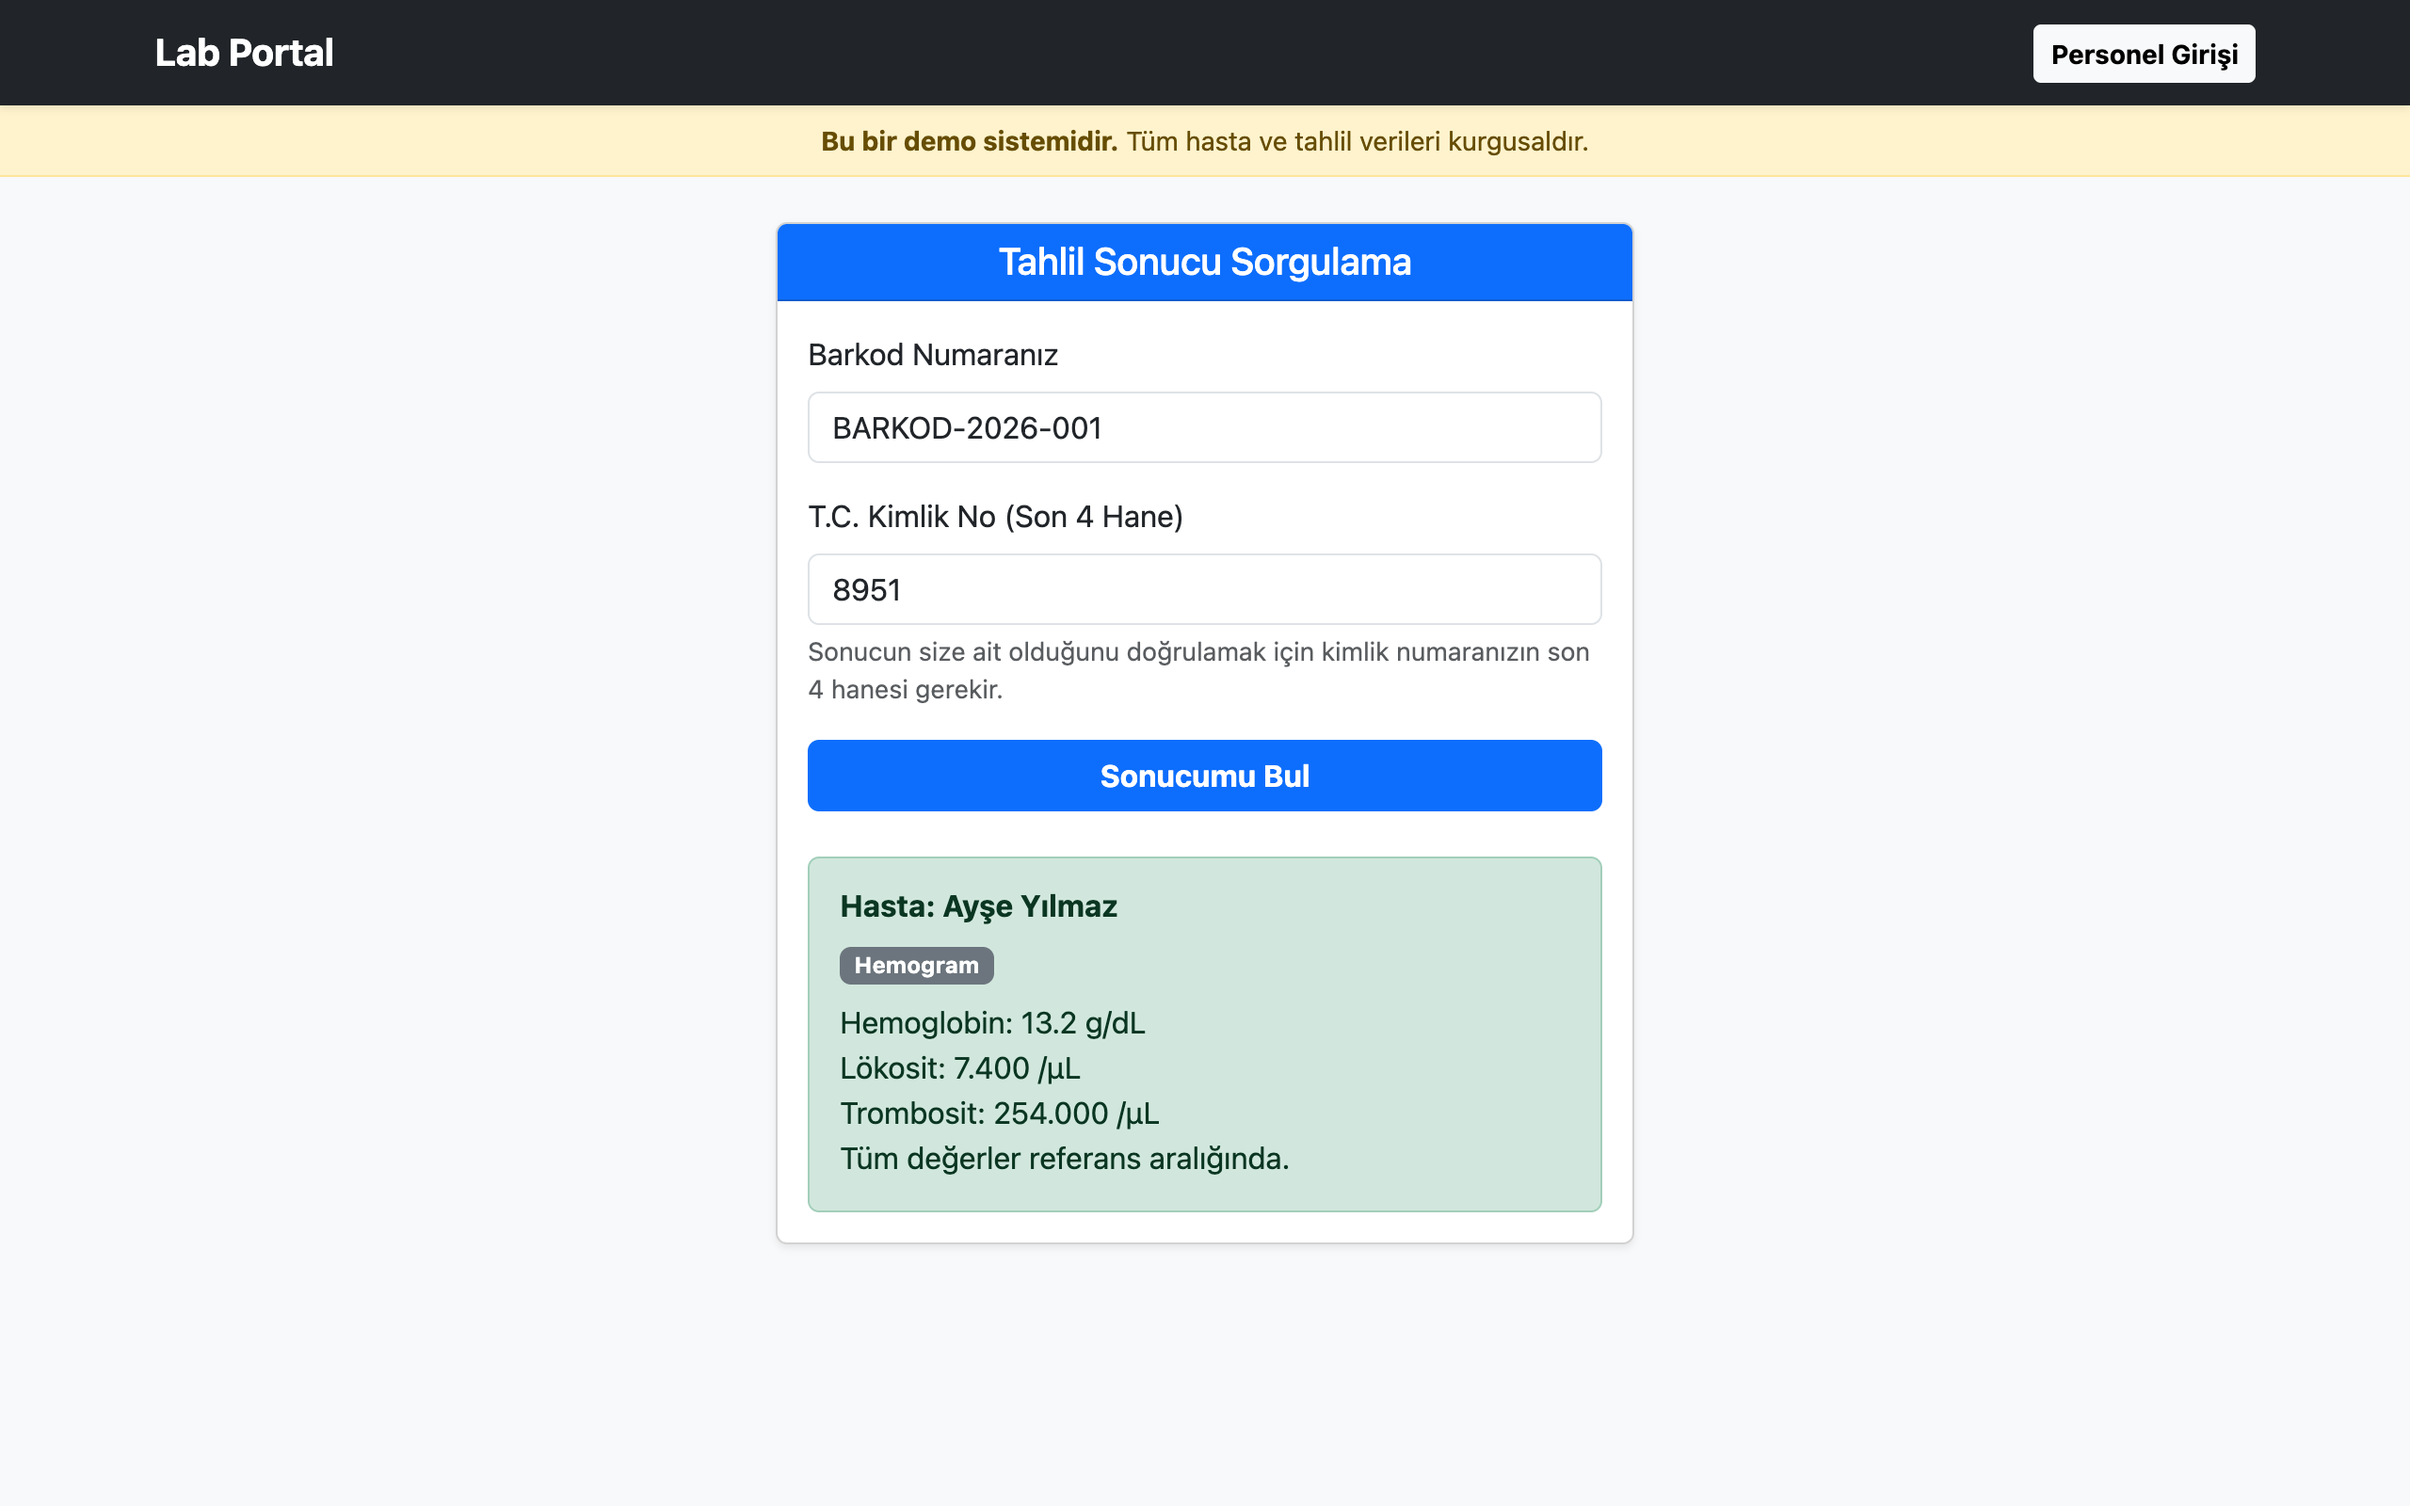
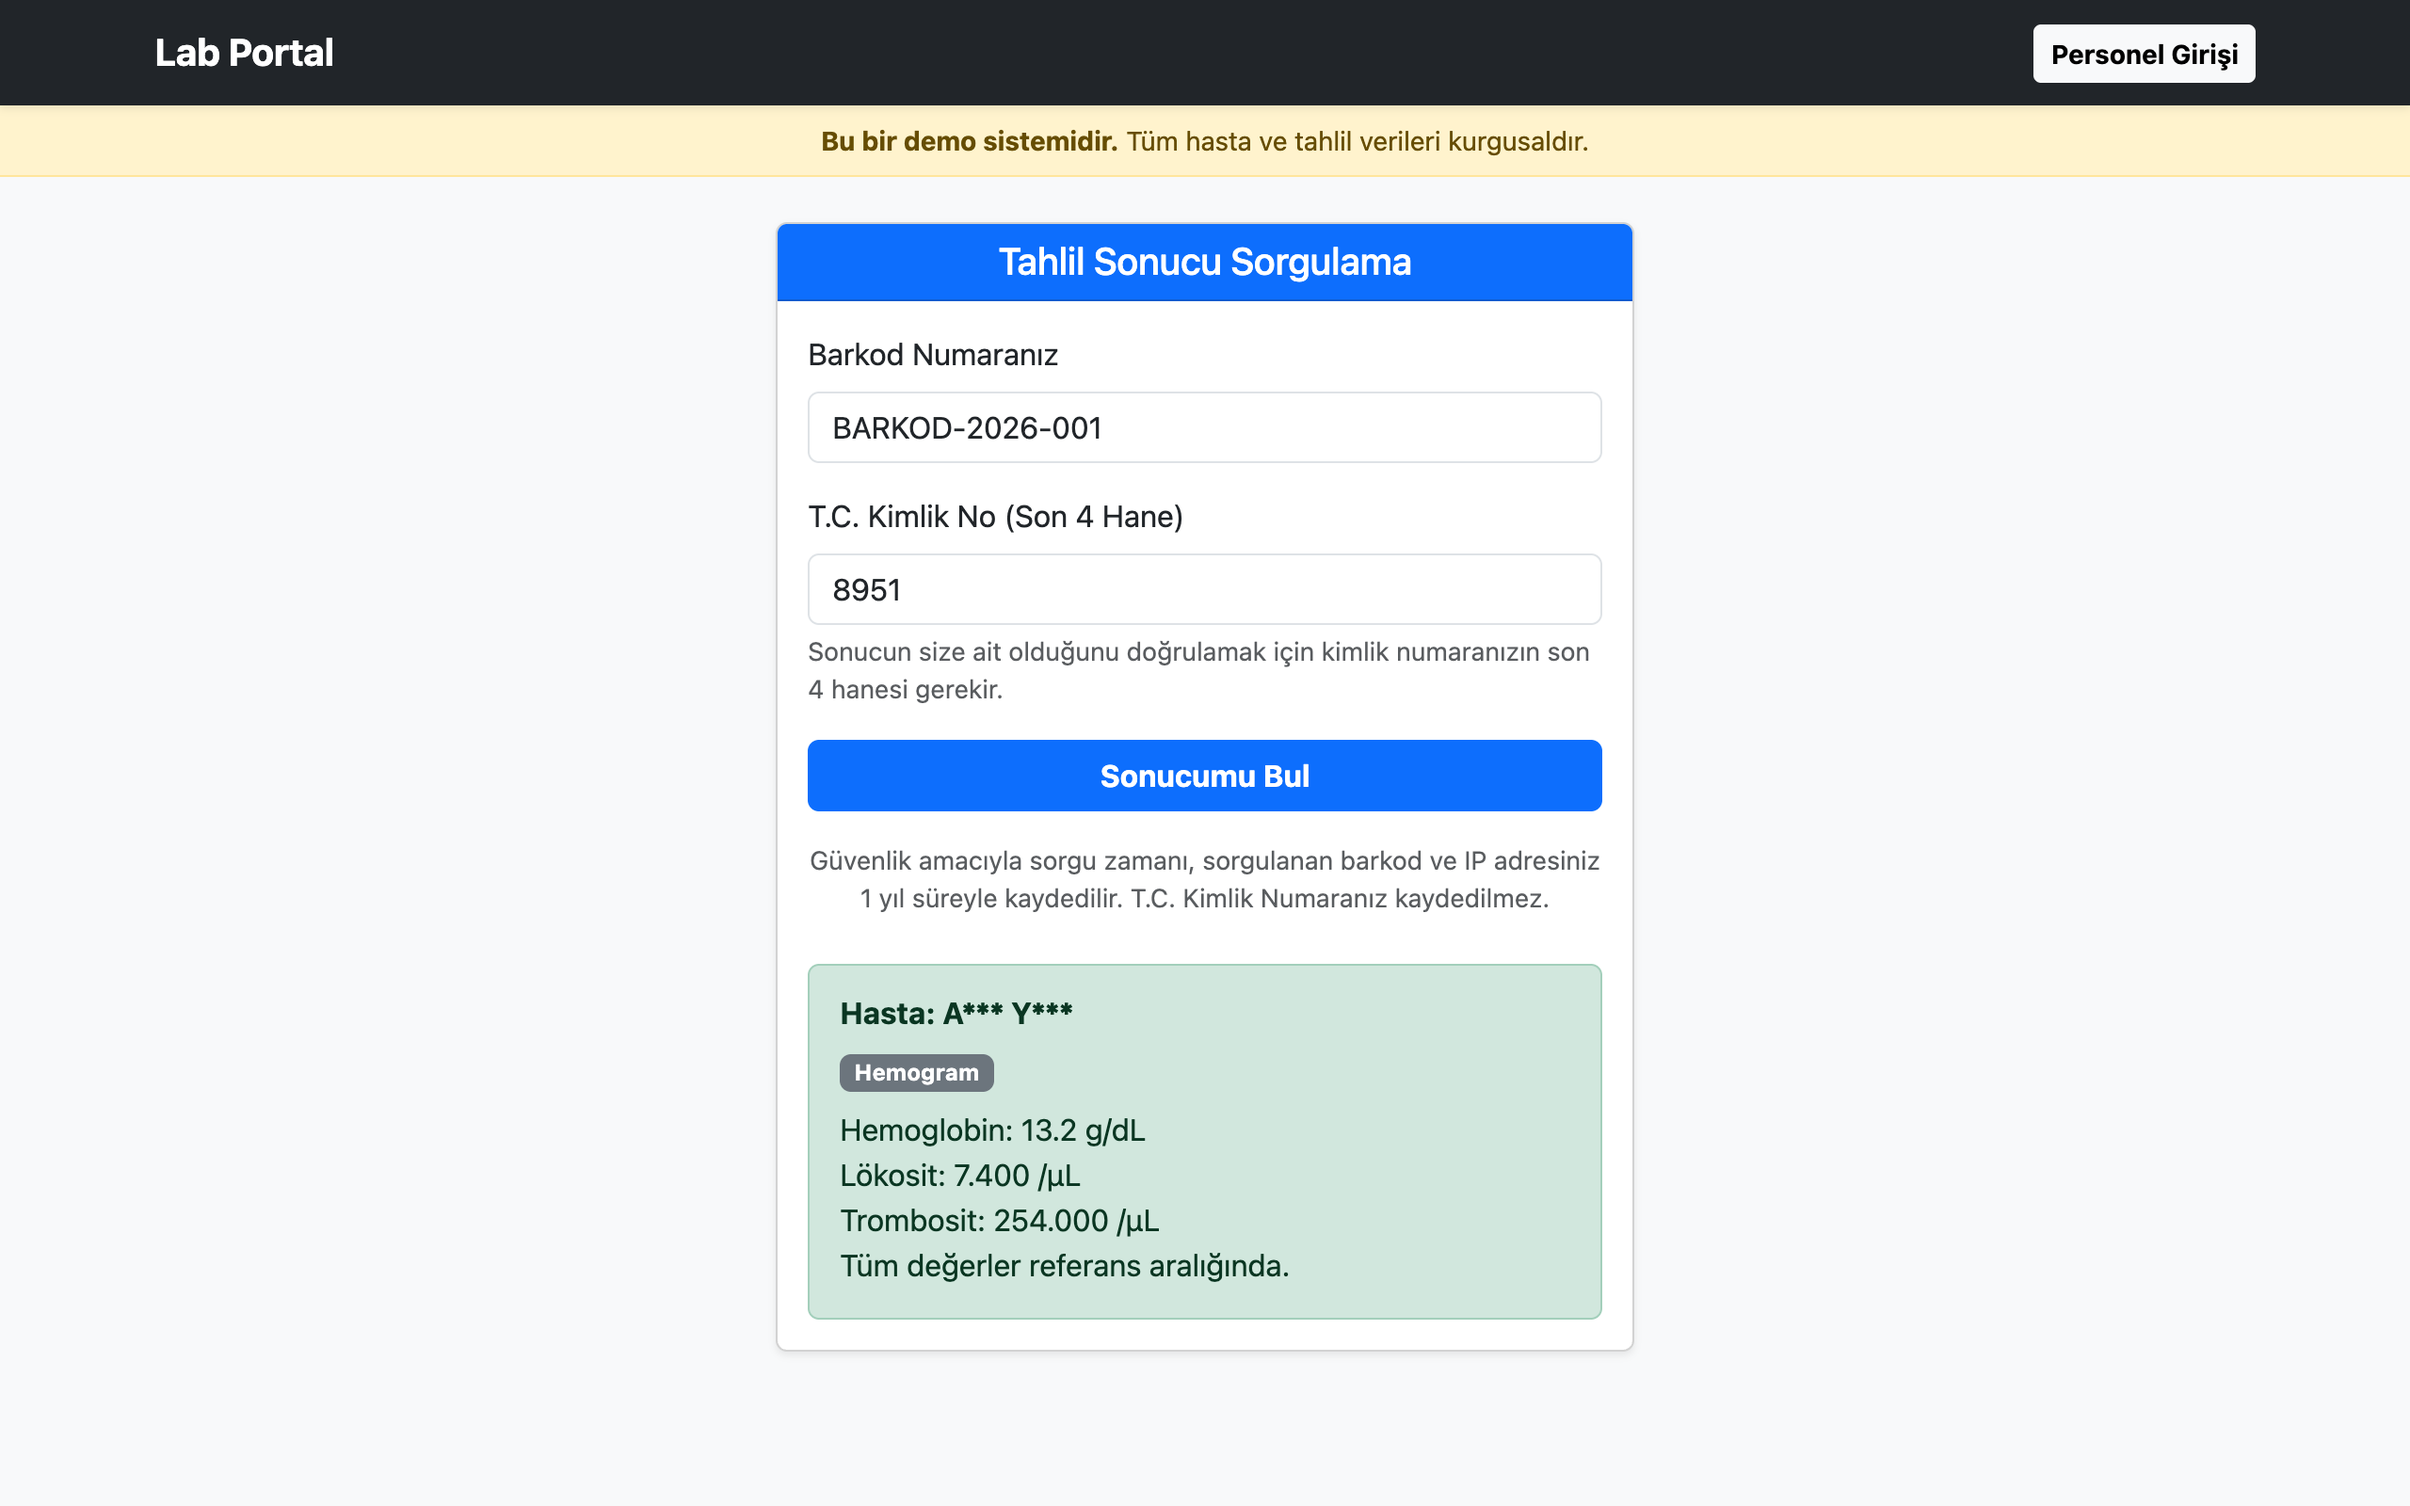
Demo veri seeder'i, maskeli ekran goruntuleri ve README guncellemesi
- DemoDataSeeder: kurgusal 7 hasta/tahlil kaydi ve maskeli loglar; yalnizca
  DEMO_MODE=true iken calisir, tekrar calistirinca kayitlari cogaltmaz
- Ekran goruntuleri maskeli ad gosterimiyle yeniden cekildi (sorgu karti,
  yonetim paneli, sistem loglari)
- README: maskeli ad gosterimi, demo verisi yukleme ve log maskeleme komutu
- Demo seeder icin testler

Changed region(s): [[0.3125, 0.5625, 0.6875, 0.875]]

diff --git a/database/seeders/DemoDataSeeder.php b/database/seeders/DemoDataSeeder.php
@@ -1,0 +1,92 @@
+<?php
+
+namespace Database\Seeders;
+
+use App\Models\Patient;
+use App\Models\SystemLog;
+use App\Models\TestResult;
+use App\Models\User;
+use App\Rules\TurkishIdentityNumber;
+use Illuminate\Database\Seeder;
+use RuntimeException;
+
+/**
+ * Herkese açık demo için kurgusal hasta ve tahlil verileri.
+ *
+ * Yalnızca DEMO_MODE=true iken çalışır. Kimlik numaraları demo kuralına
+ * göre üretilmiştir (11. hane doğru değerin bir fazlası), bu yüzden hiçbiri
+ * gerçek bir kişiye ait olamaz. Önce başlangıç kullanıcılarını oluşturur.
+ *
+ * Kullanım: php artisan db:seed --class=DemoDataSeeder
+ * Tekrar çalıştırılırsa var olan kayıtları çoğaltmaz.
+ */
+class DemoDataSeeder extends Seeder
+{
+    /** @var list<array{0: string, 1: string, 2: string, 3: string, 4: string}> */
+    private const RECORDS = [
+        // [barkod, ad, kimlik no, tahlil, sonuç]
+        ['BARKOD-2026-001', 'Ayşe Yılmaz', '12345678951', 'Hemogram', "Hemoglobin: 13.2 g/dL\nLökosit: 7.400 /µL\nTrombosit: 254.000 /µL\nTüm değerler referans aralığında."],
+        ['BARKOD-2026-002', 'Mehmet Demir', '23159047147', 'Açlık Kan Şekeri', "Glukoz: 98 mg/dL\nReferans: 70-100 mg/dL\nSonuç normal sınırlarda."],
+        ['BARKOD-2026-003', 'Zeynep Kaya', '38204619521', 'Tiroid Paneli', "TSH: 2.1 mIU/L\nT4: 1.3 ng/dL\nT3: 3.1 pg/mL\nTiroid fonksiyonları normal."],
+        ['BARKOD-2026-004', 'Ali Çelik', '41738250641', 'Lipid Profili', "Total Kolesterol: 215 mg/dL (yüksek)\nLDL: 141 mg/dL (yüksek)\nHDL: 48 mg/dL\nTrigliserit: 165 mg/dL\nDiyet önerilir."],
+        ['BARKOD-2026-005', 'Fatma Şahin', '50926371419', 'Vitamin D', "25-OH Vitamin D: 18 ng/mL\nReferans: 30-100 ng/mL\nEksiklik saptandı, takviye önerilir."],
+        ['BARKOD-2026-006', 'Hüseyin Arslan', '64081592343', 'Karaciğer Fonksiyon', "ALT: 28 U/L\nAST: 24 U/L\nGGT: 31 U/L\nDeğerler normal."],
+        ['BARKOD-2026-007', 'Elif Doğan', '72519406803', 'Tam İdrar Tahlili', "Protein: Negatif\nGlukoz: Negatif\nLökosit: 2-3 /HPF\nBulgular normal."],
+    ];
+
+    // Panelde çöp kutusu örneği olsun diye bu kayıt silinmiş olarak eklenir
+    private const TRASHED_BARCODE = 'BARKOD-2026-007';
+
+    public function run(): void
+    {
+        if (! config('app.demo_mode')) {
+            throw new RuntimeException('Demo verileri yalnızca DEMO_MODE=true iken yüklenebilir.');
+        }
+
+        $this->call(DatabaseSeeder::class);
+
+        $admin = User::where('role', 'admin')->firstOrFail();
+        $laborant = User::where('role', 'laborant')->firstOrFail();
+        $identityRule = new TurkishIdentityNumber(demoMode: true);
+
+        foreach (self::RECORDS as $i => [$barcode, $name, $identity, $testName, $details]) {
+            $identityRule->validate('identity_number', $identity, function (string $message) use ($identity) {
+                throw new RuntimeException("Demo kimlik numarası geçersiz ({$identity}): {$message}");
+            });
+
+            $createdAt = now()->subDays(count(self::RECORDS) - $i)->setTime(9 + $i, 15);
+            $user = $i % 2 === 0 ? $laborant : $admin;
+
+            $patient = Patient::firstOrCreate(['identity_number' => $identity], ['full_name' => $name]);
+
+            $result = TestResult::withTrashed()->firstOrNew(['barcode_number' => $barcode]);
+
+            if ($result->exists) {
+                continue;
+            }
+
+            $result->fill([
+                'patient_id' => $patient->id,
+                'test_name' => $testName,
+                'result_details' => $details,
+            ]);
+            $result->created_at = $result->updated_at = $createdAt;
+            $result->save();
+
+            $this->log($user, SystemLog::ACTION_CREATE, $barcode.' barkodlu hastanın ('.Patient::maskName($name).') tahlil sonucu eklendi.', $createdAt);
+
+            if ($barcode === self::TRASHED_BARCODE) {
+                $deletedAt = $createdAt->copy()->addHours(2);
+                $result->forceFill(['deleted_at' => $deletedAt])->save();
+                $this->log($admin, SystemLog::ACTION_DELETE, $barcode.' barkodlu tahlil sonucu çöp kutusuna taşındı.', $deletedAt);
+            }
+        }
+    }
+
+    private function log(User $user, string $action, string $description, $at): void
+    {
+        $log = new SystemLog(['user_id' => $user->id, 'action' => $action, 'description' => $description]);
+        $log->created_at = $log->updated_at = $at;
+        $log->save();
+    }
+}

diff --git a/tests/Feature/NameMaskingTest.php b/tests/Feature/NameMaskingTest.php
@@ -12,6 +12,7 @@ use App\Models\Patient;
 use App\Models\SystemLog;
 use App\Models\TestResult;
 use App\Models\User;
+use Database\Seeders\DemoDataSeeder;
 use Illuminate\Support\Facades\Hash;
 use Laravel\Sanctum\Sanctum;
 
@@ -288,3 +289,33 @@ it('maskeleme komutu --uygula ile yalnızca açık adları maskeler', function (
         ->expectsOutputToContain('Maskelenecek log kaydı yok.')
         ->assertSuccessful();
 });
+
+/* ---------------- Demo verileri ---------------- */
+
+it('demo verileri yalnızca demo modunda yüklenir', function () {
+    config(['app.demo_mode' => false]);
+
+    expect(fn () => $this->seed(DemoDataSeeder::class))->toThrow(RuntimeException::class)
+        ->and(TestResult::withTrashed()->count())->toBe(0);
+});
+
+it('demo verileri maskeli loglarla yüklenir ve tekrar çalıştırınca çoğalmaz', function () {
+    config(['app.demo_mode' => true]);
+    setSeedPasswords('en-büyük-kartal', 'kartal-gol-gol-gol');
+
+    $this->seed(DemoDataSeeder::class);
+    $this->seed(DemoDataSeeder::class);
+
+    expect(User::count())->toBe(2)
+        ->and(TestResult::count())->toBe(6)
+        ->and(TestResult::onlyTrashed()->count())->toBe(1)
+        ->and(SystemLog::count())->toBe(8)
+        ->and(SystemLog::pluck('description')->implode(' '))->not->toContain('Ayşe')
+        ->and(SystemLog::where('description', 'like', '%(A*** Y***)%')->count())->toBe(1);
+
+    $this->postJson('/api/sonuc/BARKOD-2026-001', ['identity_last_four' => '8951'])
+        ->assertOk()
+        ->assertJsonPath('patient_name', 'A*** Y***');
+});
+
+afterEach(fn () => setSeedPasswords(null, null));

diff --git a/README.md b/README.md
@@ -30,13 +30,17 @@ Sorgulama ekranı, personel girişi ve yönetim paneli tek bir sayfada
 ## Ekran Görüntüleri
 
 **Hasta sorgulama** — Barkod ve T.C. Kimlik Numarasının son 4 hanesiyle
-sonuç sorgulanır. Üstteki şerit, demo sistemindeki verilerin kurgusal
-olduğunu belirtir.
+sonuç sorgulanır. Hasta adı maskeli gösterilir (`A*** Y***`); başkasının
+barkodunu tahmin eden biri tam ada ulaşamaz. Üstteki şerit, demo
+sistemindeki verilerin kurgusal olduğunu belirtir.
 
 ![Hasta sorgulama ekranı](docs/screenshots/01-hasta-sorgulama.png)
 
 **Yönetim paneli** — İstatistikler, arama, sayfalama ve kayıt işlemleri.
-Silme, çöp kutusu ve sistem logları yalnızca yönetici rolünde görünür.
+Hasta adları varsayılan olarak maskelidir; göz düğmesi tam adı yalnızca o
+satırda açar ve her açılış loglanır. Tam ad sayfaya baştan gömülmez, yetki
+kontrolü yapan bir uç noktadan tek tek istenir. Silme, çöp kutusu ve sistem
+logları yalnızca yönetici rolüne açıktır.
 
 ![Yönetim paneli](docs/screenshots/02-yonetim-paneli.png)
 
@@ -50,8 +54,9 @@ Silme, çöp kutusu ve sistem logları yalnızca yönetici rolünde görünür.
     </td>
     <td width="50%" valign="top">
       <b>Sistem işlem logları</b><br>
-      Ekleme, güncelleme, silme ve geri yükleme işlemleri, işlemi yapan
-      kullanıcıyla birlikte kaydedilir.<br><br>
+      Ekleme, güncelleme, silme, geri yükleme, ad görüntüleme ve yazdırma
+      işlemleri, işlemi yapan kullanıcıyla birlikte kaydedilir. Loglarda
+      hasta adı yalnızca maskeli yer alır.<br><br>
       <img src="docs/screenshots/04-sistem-loglari.png" alt="Sistem işlem logları">
     </td>
   </tr>
@@ -160,6 +165,21 @@ php artisan serve
 ```
 
 Uygulama `http://localhost:8000` adresinde çalışır.
+
+Demo modunda (`DEMO_MODE=true`) kurgusal hasta ve tahlil verilerini yüklemek
+için:
+
+```bash
+php artisan db:seed --class=DemoDataSeeder
+```
+
+Eski sistem loglarında açık yazılmış hasta adlarını maskelemek için (önce
+önizleme gösterir, `--uygula` olmadan veritabanına yazmaz):
+
+```bash
+php artisan loglar:ad-maskele
+php artisan loglar:ad-maskele --uygula
+```
 
 ## Testler
 
